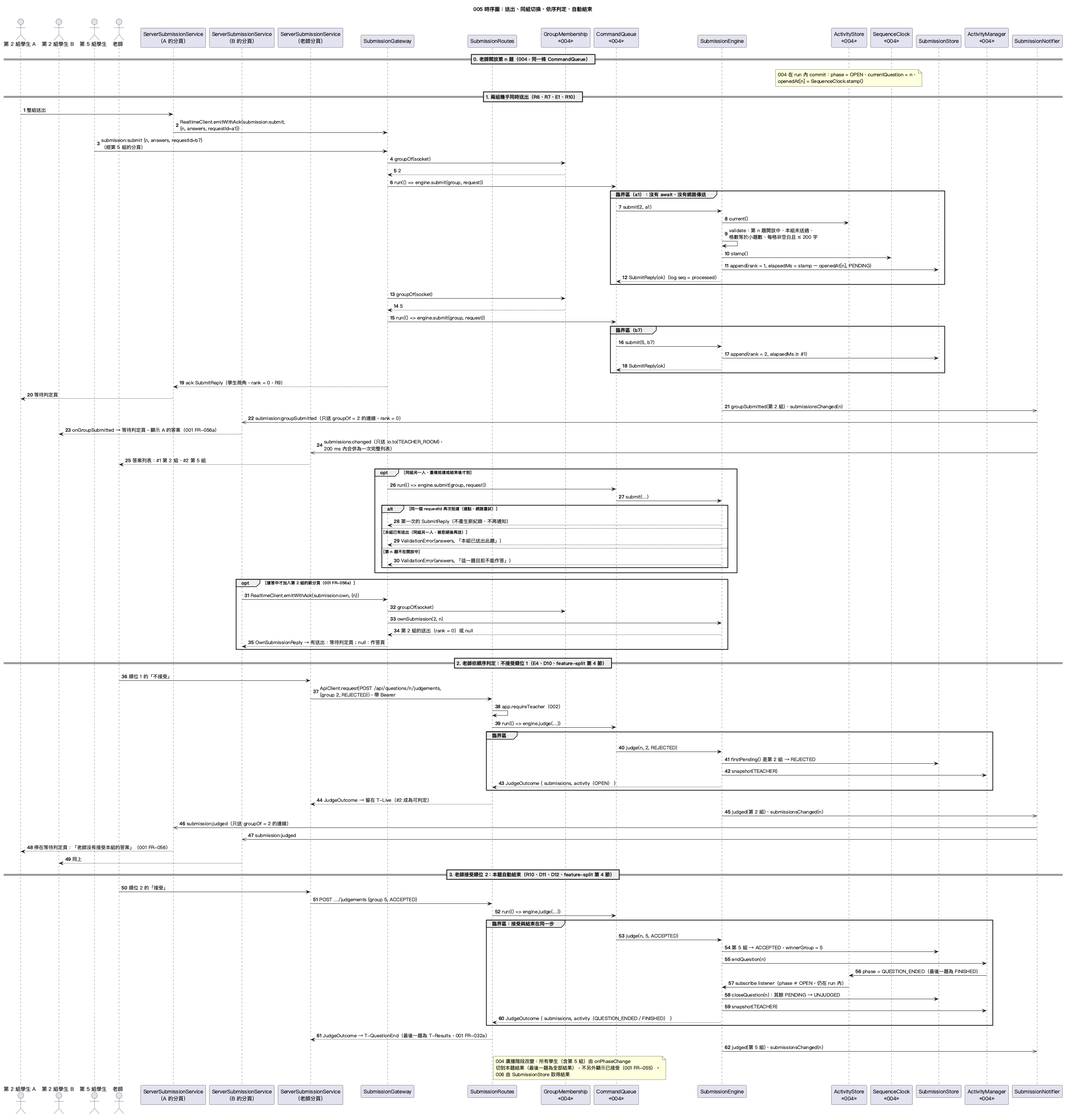
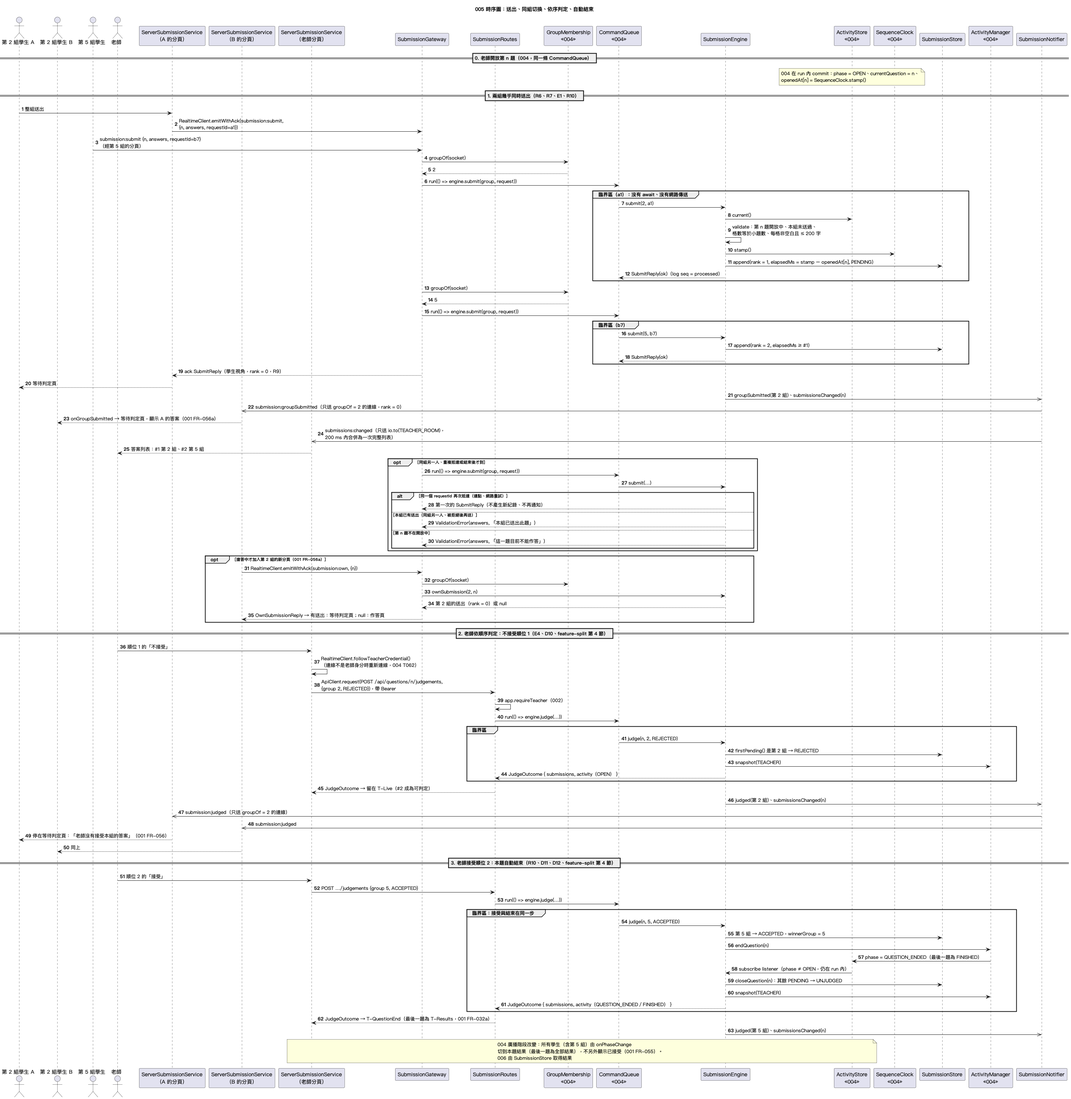
spec(005): align design and tasks with the built 001–004 code
The design was written before 004 existed and assumed a listener
signature, emit timing and helpers that differ from the real code.
Each user story now ends with a manual check, so rebinding moves
into US1 and 001's tests follow the real server.

Refs: T024, T037–T046, REQ-SUB-07, REQ-SUB-10, REQ-SUB-14, 原則 VIII

diff --git a/specs/005-buzz-submission/plan.md b/specs/005-buzz-submission/plan.md
@@ -1,6 +1,6 @@
 # Implementation Plan: 搶答與判定
 
-**Branch**: `005-buzz-submission` | **Date**: 2026-11-21（2026-11-22 配合 001 最終版修訂） | **Spec**: [spec.md](./spec.md)
+**Branch**: `005-buzz-submission` | **Date**: 2026-11-21（2026-11-22 配合 001 最終版修訂；2026-11-27 對照 001–004 的實際程式修訂） | **Spec**: [spec.md](./spec.md)
 
 **Input**: Feature specification from `specs/005-buzz-submission/spec.md`
 
@@ -14,11 +14,11 @@
 
 **Language/Version**: TypeScript 5（strict），Node.js 24 LTS（沿用 001 research RD-01、RD-02）
 
-**Primary Dependencies**: Fastify（002 的 `buildApp`）、Socket.IO 4（002 的 `app.io`、004 的前端 `RealtimeClient`，只用 WebSocket 傳輸）、pino（002 的 `loggerOptions`）、004 的 `CommandQueue`、`SequenceClock`、`ActivityStore`、`GroupMembership`、`ActivityManager`、002 的前端 `ApiClient`、React（001 的前端，不改頁面）。005 不新增執行期套件；`socket.io-client` 已是前端依賴，伺服器的整合與壓力測試另加為 devDependency
+**Primary Dependencies**: Fastify（002 的 `buildApp`）、Socket.IO 4（002 的 `app.io`、004 的前端 `RealtimeClient`，只用 WebSocket 傳輸）、pino（002 的 `loggerOptions`）、004 的 `CommandQueue`、`SequenceClock`、`ActivityStore`、`GroupMembership`、`ActivityManager`、002 的前端 `ApiClient`、React（001 的前端，不改頁面）。005 不新增執行期套件；`socket.io-client` 已是前端依賴，也已是 server 的 devDependency（004 加入）
 
 **Storage**: 伺服器記憶體（`SubmissionStore`）；伺服器重啟即消失，不寫檔（001 research RD-05）
 
-**Testing**: Vitest（單元、整合；整合以 Fastify `inject()` 與真的 Socket.IO 連線）、Playwright（多分頁端對端）、壓力測試 `npm run test:load -w server`（research RD-10、RD-11）
+**Testing**: Vitest（單元、整合；整合以 Fastify `inject()` 與真的 Socket.IO 連線）、Playwright（多分頁端對端）、壓力測試 `npm run test:load:submission -w server`（research RD-10、RD-11）。測試伺服器、假的 `RealtimeClient` 與 E2E 測試伺服器沿用 004 的輔助檔
 
 **Target Platform**: 本機單一 Node 程序；Chrome 為主，多分頁模擬老師與各組
 
@@ -43,7 +43,7 @@
 | V. 單一權威狀態來源 | 階段與題號只讀 004 的 `ActivityStore`；送出、順位、判定只在 `SubmissionStore`；前端只呈現伺服器回傳或推送的完整列表 | 通過 |
 | VI. 最小資訊揭露與機敏資料 | 學生只收本組資料，`rank` 一律為 0（`SubmissionVisibility.forStudent`）；送出列表與判定需 `app.requireTeacher`，老師推播只送 `TEACHER_ROOM`；log 不記答案與憑證；005 不碰金鑰 | 通過（research RD-06） |
 | VII. 輸入驗證與錯誤訊息 | 送出的題號、格數、空白、長度、組別都在伺服器驗證，錯誤指出是哪一格；判定請求格式錯誤回 400，不合規則不改變狀態 | 通過 |
-| VIII. 自動化測試與人工驗證 | 每個 User Story 有正常與邊界案例；Google、時鐘以替身取代；壓力測試；人工驗證紀錄 | 通過 |
+| VIII. 自動化測試與人工驗證 | 每個 User Story 有正常與邊界案例；Google、時鐘以替身取代；壓力測試；每個 User Story 的 Phase 結尾各有人工驗證並留下紀錄 | 通過 |
 | IX. 程式碼規範 | 不新增頁面元件；呈現（頁面）與資料（服務）分離；英文命名 | 通過 |
 | X. 人工把關 | 本計畫需人工審查後才進入 tasks | 待審查 |
 | XI. 簡潔 | 不用資料庫、鎖、worker、每連線 Outbox（research RD-05）；沒有只有一個實作的新介面；不自建佇列與時鐘，直接用 004 的；判定通知掃描連線而不維護組別房間（research RD-05） | 通過 |
@@ -53,7 +53,7 @@
 | 圖中的組件／類別 | 程式位置 | 來源圖 |
 | --- | --- | --- |
 | `ServerSubmissionService` | `frontend/src/services/server/ServerSubmissionService.ts` | component、class、sequence |
-| `createServiceRegistry()`（改 `submission` 綁定，移除 `judgementControl`、`submissionValidationControl`、`teammateControl`） | `frontend/src/services/createServiceRegistry.ts`（001 的檔案，只改綁定） | component |
+| `createServiceRegistry()`（改 `submission` 綁定，移除 `judgementControl`、`submissionValidationControl`、`teammateControl`，刪除 004 橋接中跟送出有關的部分，research RD-08） | `frontend/src/services/createServiceRegistry.ts`（001 的檔案，只改組合根） | component |
 | `SubmitRequest`、`SubmitReply`、`OwnSubmissionRequest`、`OwnSubmissionReply`、`JudgeRequest`、`SubmissionsChanged`、`GroupSubmitted`、`SubmissionJudged`、事件名稱常數 | `shared/src/submissionEvents.ts` | class |
 | `SubmissionGateway` | `server/src/submission/SubmissionGateway.ts` | component、class、sequence |
 | `SubmissionRoutes` | `server/src/submission/SubmissionRoutes.ts` | component、class、sequence |
@@ -61,23 +61,23 @@
 | `SubmissionStore`、`QuestionSubmissions`、`SubmissionRecord` | `server/src/submission/SubmissionStore.ts` | component、class、sequence |
 | `SubmissionVisibility` | `server/src/submission/SubmissionVisibility.ts` | component、class |
 | `SubmissionNotifier` | `server/src/submission/SubmissionNotifier.ts` | component、class、sequence |
-| 組裝與註冊（建立上述物件、訂閱 `ActivityStore.subscribe`、在 `app.io` 註冊事件、註冊路由） | `server/src/submission/index.ts` 的 `submissionRoutes`（Fastify plugin）；在 002 的 `buildApp`（`server/src/app.ts`）加一行 `app.register(submissionRoutes, deps)` | component |
+| 組裝與註冊（建立上述物件、訂閱 `ActivityStore.subscribe`、在 `app.io` 註冊事件、註冊路由） | `server/src/submission/index.ts` 的 `submissionRoutes`（Fastify plugin，從 004 的 `app.activity` 取得 `store`、`membership`、`manager`、`queue`、`clock`，從 002 取得 `app.io`、`app.requireTeacher`、`app.log`）；在 002 的 `buildApp`（`server/src/app.ts`）於 `createActivityModule` 之後加一行 `app.register(submissionRoutes)` | component |
 | 004 `CommandQueue`、`SequenceClock`、`ActivityStore`、`GroupMembership`、`ActivityManager.endQuestion`、`RealtimeClient`；002 `buildApp`、`app.requireTeacher`、`app.io`、`TEACHER_ROOM`、`ApiClient`、logger；006 `ResultService` | 其他子功能的檔案，005 只呼叫，不修改 | component、class、sequence |
 
 ## 交界假設
 
-已對照 001 最終版、004 `contracts/server-modules.md`（含前端 `RealtimeClient.on`、`emitWithAck`、`onConnect`）、`socket-events.md` 與 002 `contracts/server-extension.md`、`socket-handshake.md`。下列是 005 依賴、但對方契約沒有明寫或需要對方配合的部分。
+已對照 `main` 目前的 001、004 `contracts/server-modules.md`（含前端 `RealtimeClient.on`、`emitWithAck`、`onConnect`）、`socket-events.md` 與 002 `contracts/server-extension.md`、`socket-handshake.md`。下列是 005 依賴、但對方契約沒有明寫或需要對方配合的部分。2026-11-27 對照 001–004 的實際程式後，除 A-8 外都已確認成立（「狀態」欄）。
 
-| # | 假設 | 對象 |
-| --- | --- | --- |
-| A-1 | `ActivityStore.subscribe(listener)` 的 listener 在 `commit` 當下、仍在 `CommandQueue.run` 內同步被呼叫（004 契約已寫明）。005 在 listener 中看到第 n 題不再開放時，把待判定改為未判定 | 004 |
-| A-2 | 004 擁有唯一的 `CommandQueue.run<T>(command: () => T): T` 與 `SequenceClock.stamp()`；004 的開放、結束一題也走這條佇列（REQ-ACT-17），所以 005 的送出、判定與它們構成單一順序。`ActivityState.openedAt` 由同一個 `SequenceClock` 記錄 | 004 |
-| A-3 | 004 的 `ActivityManager.snapshot(Audience.TEACHER)` 可在 `CommandQueue.run` 內呼叫，回傳當下的老師視角 `Activity`；005 用它組 `JudgeOutcome.activity`（004 data-model 已列出 `snapshot(audience)`，但寫的用途是「連線時第一次推送」） | 004 |
-| A-4 | `ActivityManager.endQuestion(n)` 在第 n 題不是目前開放的題目時丟 `ActivityRuleError(QUESTION_NOT_OPEN)`，已結束時不改變不報錯；005 只在確認第 n 題開放中之後呼叫。最後一題時 004 一併把活動改為 `FINISHED`（D9） | 004 |
-| A-5 | 005 的老師路由加進 002 的老師路由清單測試（002 T043），確認沒有老師憑證時被 `app.requireTeacher` 拒絕 | 002 |
-| A-6 | 002 提供測試用的老師憑證取得方式（不連 Google），供 005 的整合、端對端與壓力測試使用；學生加入組別與開題直接走 004 的 `group:join` 與 HTTP | 002、004 |
-| A-7 | 006 以 `SubmissionStore.list(n)`、`winner(n)` 取得每題結果；`list` 回傳老師視角（含 `rank`）的 `Submission[]` | 006 |
-| A-8 | 001 把 `Submission.rank` 改成可選之前，學生視角 `rank` 填 0；改完後由 005 的後續任務 T035 改成不放 `rank`。這一項不阻擋 005 的實作 | 001 |
+| # | 假設 | 對象 | 狀態 |
+| --- | --- | --- | --- |
+| A-1 | `ActivityStore.subscribe(listener)` 的 listener 在 `commit` 當下、仍在 `CommandQueue.run` 內同步被呼叫（004 契約已寫明）。005 在 listener 中看到第 n 題不再開放時，把待判定改為未判定。listener 的參數是新的 `version: number`，005 以 `ActivityStore.current()` 讀狀態；listener 只改 `SubmissionStore` 與排程推播，不在裡面 `emit`（004 RA-04） | 004 | 已確認（`ActivityStore.commit`） |
+| A-2 | 004 擁有唯一的 `CommandQueue.run<T>(command: () => T): T` 與 `SequenceClock.stamp()`；004 的開放、結束一題也走這條佇列（REQ-ACT-17），所以 005 的送出、判定與它們構成單一順序。`ActivityState.openedAt` 由同一個 `SequenceClock` 記錄；在 `run` 內再呼叫 `run` 會就地執行 | 004 | 已確認（`CommandQueue`、`ActivityManager.openQuestion`） |
+| A-3 | 004 的 `ActivityManager.snapshot(Audience.TEACHER)` 可在 `CommandQueue.run` 內呼叫，回傳當下的老師視角 `Activity`；005 用它組 `JudgeOutcome.activity`（004 data-model 已列出 `snapshot(audience)`，但寫的用途是「連線時第一次推送」） | 004 | 已確認（程式註解寫明可在 `run` 內呼叫） |
+| A-4 | `ActivityManager.endQuestion(n)` 在第 n 題不是目前開放的題目時丟 `ActivityRuleError(QUESTION_NOT_OPEN)`，已結束時不改變不報錯；005 只在確認第 n 題開放中之後呼叫。最後一題時 004 一併把活動改為 `FINISHED`（D9） | 004 | 已確認（`ActivityManager.endQuestion`） |
+| A-5 | 005 的老師路由加進 002 的老師路由清單測試（002 T043），確認沒有老師憑證時被 `app.requireTeacher` 拒絕 | 002 | 待 T022 加入 |
+| A-6 | 002 提供測試用的老師憑證取得方式（不連 Google），供 005 的整合、端對端與壓力測試使用；學生加入組別與開題直接走 004 的 `group:join` 與 HTTP | 002、004 | 已確認：004 的 `activityTestServer.ts` 經 002 的 `FakeGoogleGateway` 取得 `teacherToken`，並有 `rotateTeacher()` |
+| A-7 | 006 以 `SubmissionStore.list(n)`、`winner(n)` 取得每題結果；`list` 回傳老師視角（含 `rank`）的 `Submission[]` | 006 | 006 尚未開始 |
+| A-8 | 001 把 `Submission.rank` 改成可選之前，學生視角 `rank` 填 0；改完後由 005 的後續任務 T035 改成不放 `rank`。這一項不阻擋 005 的實作 | 001 | 未完成（`shared/src/entities.ts` 的 `rank` 仍為必填） |
 
 ## Project Structure
 
@@ -95,7 +95,8 @@ specs/005-buzz-submission/
 │   └── submission-store.md     # 提供給 006 的 SubmissionStore
 ├── checklists/requirements.md
 ├── analyze-report.md
-├── manual-verification.md      # implement 階段產生
+├── manual-verification.md      # implement 階段產生：每個 User Story 的人工驗證
+├── load-test.md                # implement 階段產生：壓力測試 20 輪的結果
 └── tasks.md
 ```
 
@@ -105,9 +106,9 @@ specs/005-buzz-submission/
 shared/src/
 └── submissionEvents.ts                  # 005：事件名稱與 payload 型別
 server/
-├── package.json                         # 005：加入 test:load script、socket.io-client devDependency
+├── package.json                         # 005：加入 test:load:submission script
 ├── src/
-│   ├── app.ts                           # 002 的 buildApp：加一行 app.register(submissionRoutes, deps)
+│   ├── app.ts                           # 002 的 buildApp：加一行 app.register(submissionRoutes)
 │   └── submission/                      # 005
 │       ├── index.ts                     # submissionRoutes（Fastify plugin）：組裝並註冊
 │       ├── SubmissionEngine.ts
@@ -117,18 +118,21 @@ server/
 │       ├── SubmissionGateway.ts
 │       └── SubmissionRoutes.ts
 └── tests/
+    ├── helpers/activityTestServer.ts    # 004 的檔案：005 加入含題組的匯入範例與等待事件的輔助函式
     ├── unit/submission/
     ├── integration/submission/
     └── load/submission.load.ts
 frontend/
 ├── src/services/
-│   ├── createServiceRegistry.ts         # 001 的檔案：只改 submission 綁定、移除兩個模擬控制
+│   ├── createServiceRegistry.ts         # 001 的檔案：只改 submission 綁定、移除三個模擬控制與 004 橋接中跟送出有關的部分
 │   └── server/ServerSubmissionService.ts
 └── tests/
-    ├── unit/ServerSubmissionService.test.ts
+    ├── unit/ServerSubmissionService.student.test.ts
+    ├── unit/ServerSubmissionService.teacher.test.ts
     └── e2e/
         ├── submission.spec.ts
-        └── submission-texts.spec.ts
+        ├── submission-texts.spec.ts
+        └── us4-student.spec.ts、us5-*.spec.ts、us5-walk.ts 等  # 001 的 E2E：只改走法，改接測試伺服器
 ```
 
 **Structure Decision**: 伺服器的 005 程式集中在 `server/src/submission/`，只有 `SubmissionGateway`、`SubmissionNotifier` 使用 Socket.IO，只有 `SubmissionRoutes` 使用 Fastify；`SubmissionEngine`、`SubmissionStore` 不依賴網路，可用假物件做單元測試。事件型別放 `shared/`，前後端改動欄位時編譯期就會發現。

diff --git a/specs/005-buzz-submission/research.md b/specs/005-buzz-submission/research.md
@@ -1,8 +1,8 @@
 # Research: 搶答與判定
 
-**Feature**: `005-buzz-submission` | **Date**: 2026-11-21（2026-11-22 配合 001 最終版修訂） | **Plan**: [plan.md](./plan.md)
+**Feature**: `005-buzz-submission` | **Date**: 2026-11-21（2026-11-22 配合 001 最終版修訂；2026-11-27 對照 001–004 的實際程式修訂） | **Plan**: [plan.md](./plan.md)
 
-技術棧沿用 001 [research.md](../001-ui-prototype/research.md) 的 RD-01～RD-08（TypeScript strict、Node.js 24 LTS、Fastify、Socket.IO、pino、Vitest、Playwright、npm workspaces `frontend/` `shared/` `server/`），不另選框架。介面與實體以 001 最終版（PR #10）的 [contracts/service-interfaces.md](../001-ui-prototype/contracts/service-interfaces.md)、[data-model.md](../001-ui-prototype/data-model.md) 為準。伺服器骨架、`app.io`、`TEACHER_ROOM`、`app.requireTeacher`、`ApiClient` 依 002 `contracts/server-extension.md`、`socket-handshake.md`；`CommandQueue`、`SequenceClock`、`ActivityStore`、`GroupMembership`、`ActivityManager`、`RealtimeClient` 依 004 `contracts/server-modules.md`、`socket-events.md`。本文件只處理 005 特有的問題：順序、時間、併發、資訊隔離與介面的落點。順序與併發的想法沿用舊 `002-buzzer-session` research R1～R4、R8，改成「老師依順序判定」（E4）。
+技術棧沿用 001 [research.md](../001-ui-prototype/research.md) 的 RD-01～RD-08（TypeScript strict、Node.js 24 LTS、Fastify、Socket.IO、pino、Vitest、Playwright、npm workspaces `frontend/` `shared/` `server/`），不另選框架。介面與實體以 `main` 目前的 001（含 2026-11-24、2026-11-27 的修訂）的 [contracts/service-interfaces.md](../001-ui-prototype/contracts/service-interfaces.md)、[data-model.md](../001-ui-prototype/data-model.md) 為準。伺服器骨架、`app.io`、`TEACHER_ROOM`、`app.requireTeacher`、`ApiClient` 依 002 `contracts/server-extension.md`、`socket-handshake.md`；`CommandQueue`、`SequenceClock`、`ActivityStore`、`GroupMembership`、`ActivityManager`、`RealtimeClient` 依 004 `contracts/server-modules.md`、`socket-events.md`。本文件只處理 005 特有的問題：順序、時間、併發、資訊隔離與介面的落點。順序與併發的想法沿用舊 `002-buzzer-session` research R1～R4、R8，改成「老師依順序判定」（E4）。
 
 ---
 
@@ -39,8 +39,9 @@
 ## RD-05 推播量、同組通知與慢連線（REQ-SUB-10、REQ-SUB-15、REQ-SUB-20、NFR-02、NFR-04）
 
 - **Decision**:
-  - 老師列表合併：某題有變化時，若 200 ms 內沒有推送過就立刻推送，否則在 200 ms 視窗結束時推送一次最新的完整列表。
-  - 送給某一組的通知（組員送出、判定）不合併：走過 `app.io` 目前所有連線，送給 `GroupMembership.groupOf(socket) === n` 的那些。004 不建立組別房間（004 socket-events），所以 005 不維護 `group:<n>` 房間。組員送出的通知也會送到送出者自己的分頁；那個分頁已經在等待判定頁，沒有訂閱 `onGroupSubmitted`，不受影響。
+  - 老師列表合併：某題有變化時，若 200 ms 內沒有推送過，就以 `setImmediate` 排在這一輪事件迴圈結束後推送；否則在 200 ms 視窗結束時推送一次最新的完整列表。
+  - `SubmissionNotifier` 的三個方法都只排程，不在呼叫當下 `emit`：它們由 `submit`、`judge` 與 `ActivityStore.subscribe` 的 listener 在 004 的 `CommandQueue.run` 內呼叫，而 004 規定 listener 只排程、不在 `run` 內送網路訊息（004 RA-04，`ActivityBroadcaster` 也用 `setImmediate`）。組員送出與判定的通知同樣以 `setImmediate` 送出，不合併。
+  - 送給某一組的通知（組員送出、判定）不合併，排程後走過 `app.io` 目前所有連線，送給 `GroupMembership.groupOf(socket) === n` 的那些。004 不建立組別房間（004 socket-events），所以 005 不維護 `group:<n>` 房間。組員送出的通知也會送到送出者自己的分頁；那個分頁已經在等待判定頁，沒有訂閱 `onGroupSubmitted`，不受影響。
   - 所有 `emit` 都不等待對方回應。
 - **Rationale**: 1 秒 1,000 筆送出時，老師最多每秒收到 5 份列表，落後不超過 1 秒。組別通知一題最多 20 次（每組送出一次）加上幾次判定，每次掃過約 200 條連線，成本可忽略；比在加入、離開組別與斷線重連時同步維護房間簡單（XI）。Socket.IO 對每條連線各自緩衝，慢連線只塞住自己。
 - **上限**: 連線數到數千條時，改成在 004 的加入組別流程中維護房間。
@@ -63,13 +64,17 @@
 
 ## RD-08 001 頁面的落點與替換方式
 
-- **Decision**: 前端新增 `frontend/src/services/server/ServerSubmissionService.ts`，實作 001 `SubmissionService` 的七個方法，在 `createServiceRegistry()` 把 `submission` 綁到它，並移除 `judgementControl`、`submissionValidationControl`、`teammateControl`（001 plan「替換模擬實作的方式」、data-model `ServiceRegistry`）。004 在 005 完成前把活動與本分頁組別寫進 `MockSession`，讓模擬送出能展示（004 plan）；換綁後 `submission` 不再讀 `MockSession`。`MockSubmissionService` 是 001 的檔案，保留不刪，只供 001 的測試使用。
+- **Decision**: 前端新增 `frontend/src/services/server/ServerSubmissionService.ts`，實作 001 `SubmissionService` 的七個方法，在 `createServiceRegistry()` 把 `submission` 綁到它，並移除 `judgementControl`、`submissionValidationControl`、`teammateControl`（001 plan「替換模擬實作的方式」、data-model `ServiceRegistry`）。`MockSubmissionService` 是 001 的檔案，保留不刪，只供 001 的單元與元件測試使用。
+- **組合根中 004 留下的橋接（004 RA-14 的 `bridgeMocksToActivity`）**：刪除跟送出有關的部分：包住 `submission.judge` 的那一層（接受後改呼叫 `activity.endQuestion`；真正的 `judge` 已在伺服器自動結束本題）、包住 `joinGroup`／`leaveGroup` 寫入 `MockSession.joinedGroup` 的那一層，以及 `session.setViewerPhaseAdvancer(() => {})`。保留 `onActivityChange`／`onPhaseChange` 寫入 `MockSession.teacherActivity` 與 003 的 `lastImport` 包裝，因為 `MockResultService` 仍要讀，006 換掉結果的模擬實作後才刪。`mockBound` 移除 `submission`。
+- **006 完成前的結果頁**：`MockResultService` 讀的是 `MockSession.submissions`，換綁後永遠是空的，每一題都顯示「沒有組別送出」。spec 列為已知限制（Session 2026-11-27）；不另做橋接把真正的送出寫回 `MockSession`（XI：那段程式只為了展示，006 一完成就要刪）。
+- **001 的測試**：依賴「模擬：接受」「模擬：不接受」「模擬：同組組員送出」與送出的「模擬：驗證失敗」的 001 E2E 與元件測試，改走真的測試伺服器（同 004 T061）：老師以測試伺服器登入，學生真的送出，需要判定時由輔助函式直接呼叫測試伺服器的老師 API。只改走法與輔助檔，不改 001 的頁面與既有斷言；一定要改斷言才能通過的測試先列出，由使用者決定。這些模擬控制的專屬測試（它們只驗證模擬實作本身）隨模擬控制從組合根移除而刪除或改為只測 `MockSubmissionService`。
 - 使用其他子功能的前端元件：
   - Socket.IO：004 的 `RealtimeClient`（每分頁一條連線，組別記在這條連線上）。`submitAnswer`、`getGroupSubmission` 用 `emitWithAck`（5 秒逾時，以 `UnexpectedError`「連不上伺服器，請確認伺服器已啟動」reject）；`onSubmissionsChange`、`onGroupSubmitted`、`onJudgement` 用 `on`；重新連線用 `onConnect`。
   - HTTP：002 的 `ApiClient.request(method, path, body?)`，自動帶老師憑證，錯誤轉成 `ApiError`（符合 `UnexpectedError`）。
 - `ValidationError` 配合 001 現況：作答頁一律顯示在第一個答案欄旁（001 tasks T087）。`field` 沿用 001 模擬實作的寫法：某一格為 `answers.<i>`，不屬於某一格為 `answers`；`message` 說明是哪一格或什麼原因。
+- **老師憑證與連線**：`listSubmissions`、`judge`、`onSubmissionsChange` 開頭都先呼叫 `RealtimeClient.followTeacherCredential()`，與 004 `HttpActivityService` 的老師指令相同（004 T062）。分頁在登入前以學生身分連線；沒有這一步，連線不在 `TEACHER_ROOM`，收不到 `submissions:changed`。重新連線後的 `onConnect` 會觸發下面的重新讀取。
 - **重新連線**:
-  - 老師：`onSubmissionsChange` 的訂閱在 `onConnect` 時重新呼叫 `GET /api/questions/:n/submissions`，以完整列表通知頁面。
+  - 老師：`onSubmissionsChange` 的訂閱在 `onConnect` 時重新呼叫 `GET /api/questions/:n/submissions`，以完整列表通知頁面。老師重新整理後重新登入（001 FR-015）時，控制台・搶答中掛載時本來就會 `listSubmissions` 並訂閱，取得的是伺服器上的完整列表（AC-29）；舊憑證的請求由 002 拒絕。
   - 學生：服務記住最近一次 `submitAnswer`／`getGroupSubmission` 的題號。`onConnect` 時若有 `onGroupSubmitted` 或 `onJudgement` 的訂閱，就重新 `getGroupSubmission(q)`：有送出且有 `onGroupSubmitted` 訂閱時通知它；判定為 `REJECTED` 且有 `onJudgement` 訂閱時通知它。004 的 `RealtimeClient` 不補送舊事件，所以由服務自己補。
 
 ## RD-09 Logging（原則 VI、VIII）
@@ -79,7 +84,7 @@
 
 ## RD-10 壓力測試（NFR-01、NFR-02、SC-002、SC-003）
 
-- **Decision**: `server/tests/load/submission.load.ts`，以 `npm run test:load -w server` 執行，重複 20 輪：
+- **Decision**: `server/tests/load/submission.load.ts`，以 `npm run test:load:submission -w server` 執行（命名沿用 004 的 `test:load:activity`），重複 20 輪，每輪結果記在 `specs/005-buzz-submission/load-test.md`（同 004：壓力測試是自動化量測，不放進人工驗證紀錄）：
   1. 以子程序啟動伺服器（隨機埠，Google 以 002 的測試替身取代），pino 輸出到暫存檔。
   2. 以 `socket.io-client`（只用 WebSocket 傳輸）建立 1 個老師連線與 200 個學生連線（20 組 × 10），學生經 004 的 `group:join` 加入。
   3. 老師經 004 的 HTTP 建立活動並開放一題。
@@ -91,7 +96,8 @@
 ## RD-11 測試分層（原則 VIII）
 
 - **單元**（Vitest，`server/tests/unit/submission/`）：`SubmissionEngine`（使用 004 真正的 `CommandQueue`、以假的 `performance.now` 控制的 `SequenceClock`，以及假的 `ActivityStore`、`ActivityManager`）、`SubmissionStore`、`SubmissionVisibility`、`SubmissionNotifier`（假計時器、假的 io）；前端 `ServerSubmissionService`（假的 `RealtimeClient` 與 `ApiClient`）。`CommandQueue`、`SequenceClock` 本身的測試屬於 004。
-- **整合**（Vitest + Fastify `inject()` 與真的 Socket.IO 連線，`server/tests/integration/submission/`）：使用 002、004 的真正實作，Google 以 002 的測試替身取代。
-- **端對端**（Playwright，`frontend/tests/e2e/`）：1 個老師分頁與 3 個學生分頁走完送出、組員跟著切換、拒絕、接受、自動結束；擷取學生分頁的 WebSocket 訊息檢查 R9。
+- **整合**（Vitest + Fastify `inject()` 與真的 Socket.IO 連線，`server/tests/integration/submission/`）：使用 002、004 的真正實作，Google 以 002 的測試替身取代。測試伺服器沿用 004 的 `server/tests/helpers/activityTestServer.ts`（老師憑證、`rotateTeacher()`、只用 WebSocket 的老師與學生連線、`emitWithAck`、`importResult`），005 只在旁邊加一個含題組的匯入範例與等待 005 事件的輔助函式，不另寫一份測試伺服器。
+- **前端單元**：使用既有的 `frontend/tests/helpers/fakeRealtimeClient.ts`，不另寫假的 `RealtimeClient`。
+- **端對端**（Playwright，`frontend/tests/e2e/`，經 004 的 `testServer.ts`／`server/tests/e2e/startTestServer.ts` 連到測試伺服器）：1 個老師分頁與 3 個學生分頁走完送出、組員跟著切換、拒絕、接受、自動結束；擷取學生分頁的 WebSocket 訊息檢查 R9。
 - **壓力**：RD-10。
-- **人工驗證**：`specs/005-buzz-submission/manual-verification.md`（implement 階段產生）。
+- **人工驗證**：每個 User Story 的 Phase 結尾各執行 quickstart 中該 Story 的情境，結果記在 `specs/005-buzz-submission/manual-verification.md`（implement 階段產生）；Polish 再把全部情境走一次。

diff --git a/specs/005-buzz-submission/analyze-report.md b/specs/005-buzz-submission/analyze-report.md
@@ -1,6 +1,6 @@
 # Specification Analysis Report: 005 搶答與判定
 
-**Date**: 2026-11-21（第 4 次：2026-11-22） | **Command**: `/speckit-analyze` | **Artifacts**: spec.md、plan.md、tasks.md、research.md、data-model.md、contracts/、diagrams/005-*.puml、constitution.md；交界對照 001 最終版（PR #10）、`docs/feature-split.md` 最新版、004 `contracts/server-modules.md`、`socket-events.md`，002 `contracts/server-extension.md`、`socket-handshake.md`、`tasks.md`
+**Date**: 2026-11-21（第 4 次：2026-11-22；第 5 次：2026-11-27） | **Command**: `/speckit-analyze` | **Artifacts**: spec.md、plan.md、tasks.md、research.md、data-model.md、contracts/、diagrams/005-*.puml、constitution.md；交界對照 001 最終版（PR #10）、`docs/feature-split.md` 最新版、004 `contracts/server-modules.md`、`socket-events.md`，002 `contracts/server-extension.md`、`socket-handshake.md`、`tasks.md`
 
 ## 第 1 次分析的發現（已修正）
 
@@ -47,6 +47,44 @@
 | L5 | Dependency | LOW | plan 交界假設 A-3 | 005 在 `CommandQueue.run` 內呼叫 004 的 `ActivityManager.snapshot(Audience.TEACHER)` 組 `JudgeOutcome.activity`；004 文件寫的用途是「連線時第一次推送」 | 請 004 確認可在 `run` 內呼叫（只讀，無副作用） |
 | L6 | Usability | LOW | spec Assumptions | 配合 001 現況：「整組送出」有空白格時仍可按；驗證錯誤一律顯示在第一個答案欄旁 | 已寫為已知限制；要改善需先改 001 |
 
+## 第 5 次分析（2026-11-27，對照 001–004 完成後的實際程式）
+
+001–004 已實作完成；005 的文件停在 2026-11-22。這次對照 `main` 目前的 001 spec 與契約、004 `server/src/activity/`、`frontend/src/services/` 的實際程式。處理方式由使用者決定（S1–S3），其餘照建議修改。
+
+### 發現與修正
+
+| ID | Category | Severity | Location(s) | Summary | 修正 |
+|----|----------|----------|-------------|---------|------|
+| S1 | Process | HIGH | 分支、`.specify/feature.json` | 分支 `005-buzzer-submission` 與 `specs/005-buzz-submission` 不同名（CLAUDE.md 第 2 節）；`.specify/feature.json`（不進版控）仍指向 004，speckit 指令都會作用在 004 | 分支改名為 `005-buzz-submission`；`feature.json` 改指 005 |
+| S2 | Inconsistency | HIGH | tasks T024、research RD-08 | 004 RA-14 在組合根留下 `bridgeMocksToActivity`，換綁時沒有處理；換綁後 `MockResultService` 讀不到送出，結果頁一律「沒有組別送出」 | 使用者決定 A：T024 刪除橋接中跟送出有關的部分，保留 `teacherActivity` 與 `lastImport`；結果頁的落差列為已知限制（spec Session 2026-11-27、Assumptions） |
+| S3 | Coverage | HIGH | tasks | 換綁後依賴模擬控制的 001 測試會失敗，沒有任務處理（004 以 T061、T063 處理同類問題） | 新增 T041（Phase 3，送出相關）、T043（Phase 4，判定相關）：只改走法與輔助檔，不改頁面與斷言；必須改斷言的先列出由使用者決定 |
+| M1 | Coverage | MEDIUM | spec | 001 FR-015、D21：老師在搶答中重新登入後回到控制台；spec 沒有這個情境 | 新增 AC-29、Edge Case、REQ-SUB-10 補充；T019 以 `rotateTeacher()` 測試 |
+| M2 | Inconsistency | MEDIUM | data-model、research RD-08、tasks | 老師端方法沒有呼叫 `RealtimeClient.followTeacherCredential()`（004 T062），連線可能不在 `TEACHER_ROOM` | data-model、contracts 規則 7、類別圖、時序圖、T038、T040、T020、T023 補上 |
+| M3 | Inconsistency | MEDIUM | 類別圖、data-model | `ActivityStore.subscribe` 的 listener 參數寫成 `ActivityState`，實際為 `version: number` | 改為 `onActivityChange(version)`，以 `current()` 讀狀態；重新產生 PNG |
+| M4 | Inconsistency | MEDIUM | research RD-05、T008、T029 | 推送「立刻送出」會在 `CommandQueue.run` 內 `emit`，違反 004 RA-04 | 推送一律 `setImmediate` 排程；T029 改為 `run` 內不得 `emit`；contracts 規則 6、類別圖 note |
+| M5 | Duplication | MEDIUM | T003、T014、T020、T032 | 另寫測試伺服器與假 `RealtimeClient`，與 004 既有輔助檔重複 | 改為擴充 `activityTestServer.ts`，使用 `fakeRealtimeClient.ts` 與 004 的 E2E 測試伺服器 |
+| L1 | Inconsistency | LOW | T002、plan、quickstart、RD-10 | `socket.io-client` 已是 devDependency；指令命名與 004 不一致 | 改為 `test:load:submission` |
+| L2 | Inconsistency | LOW | T030 | 壓力測試結果寫進人工驗證紀錄；004 改為獨立的 `load-test.md` | 改記在 `load-test.md` |
+| L3 | Dependency | LOW | plan 交界假設、spec「相依」、contracts | A-1～A-4、A-6 已可確認；004 以 `app.activity` 提供模組；「PR #10 最終版」已過時 | plan 加「狀態」欄；`app.register(submissionRoutes)` 改從 `app.activity` 取得；改為以 `main` 目前的版本為準 |
+| L4 | Process | LOW | tasks | CLAUDE.md 步驟 6 的頁面確認規則沒有說明 | tasks 註明 005 不改頁面，不適用 |
+
+### 依使用者要求新增
+
+- 每個 User Story 的 Phase 以人工驗證結尾：T042（US1）、T044（US2）、T045（US3）、T046（US4）；quickstart 的人工驗證情境依 User Story 分組（情境 1–16），T033 在 Polish 全部再走一次。
+- 為了讓 US1 能在瀏覽器驗證，組合根換綁（T024）與老師的答案列表（`GET` 路由 T039、`listSubmissions`／`onSubmissionsChange` T040，對應 US1 的 AC-03）提前到 Phase 3；判定（`POST` 路由、`judge`）留在 Phase 4。Phase 3 與 Phase 4 之間，`judge` 暫時以 `UnexpectedError`「判定功能尚未完成（005 Phase 4）」reject（2026-11-27 使用者決定，不把判定提前、不交給模擬實作）：控制台在共通錯誤訊息區顯示訊息，列表與階段不變，題目以 004 的「結束這一題」結束；T038 測試這個錯誤，T023 換成真正的實作並刪除這段程式與測試案例。
+- 任務編號 T036 未使用（新增任務從 T037 起，避免與舊編號混淆）。
+
+### 修正後重跑
+
+以腳本核對：spec 的 AC-01～29 都出現在 tasks；tasks 引用的任務編號都有定義（T061 是 004 的任務）；文件中已沒有 `test:load -w`、`submissionTestServer`、`ActivityState [0..1]) =>`、「立刻送出」等過時寫法。
+
+| ID | Category | Severity | Summary | Recommendation |
+|----|----------|----------|---------|----------------|
+| L4 | Dependency | LOW | `Submission.rank` 在 001 仍為必填，T035 繼續等待 | 不變 |
+| L6 | Usability | LOW | 已知限制：空白格仍可按送出、錯誤顯示在第一個答案欄旁 | 不變 |
+| L7 | Usability | LOW | 已知限制：006 完成前結果頁一律「沒有組別送出」 | 006 完成後消失 |
+| L8 | Process | LOW | T041、T043 可能需要改 001 的斷言（例如 `createServiceRegistry.test.ts` 檢查三個控制存在、`us4-student.spec.ts` 檢查訊息「模擬：驗證失敗」） | 實作時列出，由使用者決定 |
+
 ## Coverage Summary
 
 | Requirement Key | Has Task? | Task IDs | Notes |
@@ -54,7 +92,7 @@
 | REQ-SUB-01～21 | ✅ | 見 tasks.md 需求追溯表 | 21 條全部有任務 |
 | REQ-SUB-NFR-01～04 | ✅ | T027～T030、T012、T015 | 壓力測試、慢連線、時鐘 |
 | SC-001～007 | ✅ | 見 tasks.md 成功標準表 | SC-006 為人工驗證 |
-| AC-01～28 | ✅ | 每個 AC 至少出現在一個測試任務 | 以腳本逐一核對 |
+| AC-01～29 | ✅ | 每個 AC 至少出現在一個測試任務 | 以腳本逐一核對（2026-11-27） |
 
 **Constitution Alignment Issues**: 沒有。I（三張圖完整、藍圖對照、T034）、II（追溯表）、III（只改組合根綁定與 `buildApp` 一行註冊，不改 001 頁面）、V（只讀 004 `ActivityStore`；單一佇列由 004 擁有）、VI（`forStudent` 的 `rank` 為 0、只送本組、`app.requireTeacher`、`TEACHER_ROOM`、T025）、VII（伺服器驗證、`{ code, message }`）、VIII（每個 Story 有正常與邊界測試、T033 人工驗證）、XI（不自建佇列與時鐘、不維護組別房間、不做 Outbox）。
 
@@ -63,12 +101,12 @@
 ## Metrics
 
 - Total Requirements: 25（21 條功能需求、4 條非功能需求）
-- Total Acceptance Criteria: 28
-- Total Tasks: 35
+- Total Acceptance Criteria: 29
+- Total Tasks: 45（T001–T046，T036 未使用）
 - Coverage: 100%
 - Ambiguity Count: 0
 - Duplication Count: 0
-- Critical Issues Count: 0（HIGH 0、MEDIUM 0、LOW 4）
+- Critical Issues Count: 0（第 5 次修正後：HIGH 0、MEDIUM 0、LOW 4）
 
 ## 跨子功能交界
 
@@ -77,10 +115,11 @@
 | 001 `SubmissionService` 七個方法、`JudgeOutcome` | ✅ contracts/submission-api.md 第 4 節逐一對應；頁面行為照 001 最終版 |
 | 001 D10–D18 | ✅ spec「001 交給 005 的事項」依最終版逐條處理 |
 | 002 `buildApp`、`app.requireTeacher`、`app.io`、`TEACHER_ROOM`、`ApiClient`、`{ code, message }`、T043 老師路由清單 | ✅ T019、T022、T025 |
-| 004 `CommandQueue`、`SequenceClock`、`ActivityStore.subscribe`、`GroupMembership.groupOf`、`ActivityManager.endQuestion`／`snapshot`、`RealtimeClient.on`／`emitWithAck`／`onConnect` | ✅ 與 004 contracts 一致；`snapshot` 在 `run` 內呼叫待 004 確認（L5） |
+| 004 `CommandQueue`、`SequenceClock`、`ActivityStore.subscribe`、`GroupMembership.groupOf`、`ActivityManager.endQuestion`／`snapshot`、`RealtimeClient.on`／`emitWithAck`／`onConnect` | ✅ 已與 004 的實際程式核對（2026-11-27）：`snapshot` 可在 `run` 內呼叫；listener 參數為版本號；推送不在 `run` 內送出 |
 | 006 `SubmissionStore.list`、`winner` | ✅ contracts/submission-store.md；`behindFirstMs` 由 006 計算 |
 
 ## Next Actions
 
-- 沒有 CRITICAL、HIGH、MEDIUM，可以進入人工審查（原則 X）。
+- 第 5 次修正後沒有 CRITICAL、HIGH、MEDIUM；人工審查（原則 X）後可以進入 `/speckit-implement` Phase 1。
+- 依 CLAUDE.md 第 3 節，spec 的修改要先獨立 commit（`spec` 類型），再 commit plan、tasks 等設計文件與圖表。
 - 001 把 `Submission.rank` 改成可選後，執行 T035。

diff --git a/specs/005-buzz-submission/quickstart.md b/specs/005-buzz-submission/quickstart.md
@@ -5,7 +5,7 @@
 ## 前置條件
 
 - Node.js 24 LTS；在 repo 根目錄 `npm install`。
-- 001（PR #10 最終版）、002、003、004 已合併。005 不需要 001 再改頁面；`Submission.rank` 在 001 改成可選之前，學生收到的一律是 0。
+- 001、002、003、004 已合併（以 `main` 目前的版本為準）。005 不需要 001 再改頁面；`Submission.rank` 在 001 改成可選之前，學生收到的一律是 0。
 - 手動操作時需要 Google 登入的環境變數（`GOOGLE_CLIENT_ID`、`GOOGLE_CLIENT_SECRET`、`GOOGLE_API_KEY`、`GOOGLE_APP_ID`），由使用者自行設定；自動化測試以 002 的測試替身取代 Google，不需要這些變數。
 
 ## 自動化測試
@@ -14,22 +14,52 @@
 | --- | --- | --- |
 | `npm test -w server -- submission` | 伺服器單元與整合測試 | 全部通過 |
 | `npm test -w frontend -- ServerSubmissionService` | 前端服務單元測試 | 全部通過 |
-| `npx playwright test submission -c frontend/playwright.config.ts` | 1 個老師分頁、3 個學生分頁的端對端測試 | 全部通過 |
-| `npm run test:load -w server` | 壓力測試，20 輪（research RD-10） | 20 輪都通過；輸出每輪的 p95、最大延遲、被接受筆數（20） |
+| `npm test -w frontend` | 前端全部單元與元件測試（含 001 的測試，換綁後仍要通過） | 全部通過 |
+| `npx playwright test -c frontend/playwright.config.ts` | 005 的端對端測試，以及改走測試伺服器的 001 E2E | 全部通過 |
+| `npm run test:load:submission -w server` | 壓力測試，20 輪（research RD-10） | 20 輪都通過；輸出每輪的 p95、最大延遲、被接受筆數（20）；結果記在 `load-test.md` |
 
 ## 人工驗證情境
 
-啟動系統（`npm run dev`），開 1 個老師分頁與 3 個學生分頁（第 1 組 A、B 兩人，第 2 組 C 一人）。老師登入、匯入「題組＋單題範本」、建立 3 組的活動、開放第 1 題（題組）。結果記在 `specs/005-buzz-submission/manual-verification.md`。
+啟動系統（`npm start`），開 1 個老師分頁與 3 個學生分頁（第 1 組 A、B 兩人，第 2 組 C 一人）。老師登入、匯入「題組＋單題範本」、建立 3 組的活動、開放第 1 題（題組）。每個 User Story 的 Phase 完成後，執行該 Story 的情境；Polish 再把全部情境走一次。結果記在 `specs/005-buzz-submission/manual-verification.md`。
+
+### US1 學生以組別整組送出（Phase 3 結尾）
+
+Phase 3 結束時，組合根已換綁真正的實作（T024），老師看得到答案列表，但判定要到 Phase 4 才完成；這時按「接受」「不接受」，共通錯誤訊息區會顯示「判定功能尚未完成（005 Phase 4）」，列表與階段不變；要結束題目時按 004 的「結束這一題」。判定相關的情境留到 US2。
 
 | # | 操作 | 預期 | 對應 |
 | --- | --- | --- | --- |
 | 1 | A 只填（1），按「整組送出」 | 留在作答頁，第一個答案欄旁顯示「每一格都填才能送出」，已填的內容不變 | AC-02 |
 | 2 | A、B 都填好，幾乎同時按「整組送出」 | 兩人最後都在等待判定頁，顯示同一份答案（先處理的那一筆）；老師列表中第 1 組只有一列 | AC-04、AC-27 |
 | 3 | C 送出 | 老師列表依序 #1 第 1 組、#2 第 2 組，各有兩個小題的答案與經過時間 | AC-03、AC-09 |
-| 4 | 檢查 C 的分頁（含瀏覽器開發者工具的 WebSocket 訊息） | 看不到第 1 組的任何資料；自己的送出資料 `rank` 為 0 | AC-17、AC-18 |
+| 4 | 另開一個新的學生分頁，加入第 1 組 | 新分頁直接進入等待判定頁，顯示「等待老師判定」 | AC-28 |
+
+### US2 老師依送出順序判定（Phase 4 結尾）
+
+接續 US1 的狀態（第 1 題：#1 第 1 組、#2 第 2 組都待判定）。
+
+| # | 操作 | 預期 | 對應 |
+| --- | --- | --- | --- |
 | 5 | 老師看 #2 的按鈕 | 不可用；只有 #1 可判定 | AC-10 |
 | 6 | 老師按 #1「不接受」 | 老師留在控制台・搶答中；A、B 停在等待判定頁，改為顯示「老師沒有接受本組的答案」，沒有送出按鈕；#2 變成可判定 | AC-08、AC-11 |
 | 7 | 另開一個新的學生分頁，在這時加入第 1 組 | 新分頁直接進入等待判定頁，顯示「老師沒有接受本組的答案」 | AC-28 |
-| 8 | 老師按 #2「接受」 | 1 秒內老師到控制台・本題已結束，所有學生到本題結果；第 2 組為搶答成功 | AC-12、SC-005 |
-| 9 | 開放第 2 題，只有第 1 組送出，老師按「結束這一題」 | 第 1 組的送出為「未判定」；結束後再送出被拒絕「這一題目前不能作答」 | AC-14、AC-06 |
-| 10 | 查看伺服器 log | 有 `submission.accepted`（含 `seq`、`rank`）、`judgement.applied`；沒有答案內容與憑證 | AC-22 |
+| 8 | 老師重新整理分頁，從首頁重新登入 | 回到控制台・搶答中，#1 第 1 組「不接受」、#2 第 2 組「待判定」，#2 的按鈕可用；學生頁面不受影響 | AC-29 |
+| 9 | 老師按 #2「接受」 | 1 秒內老師到控制台・本題已結束，所有學生到本題結果；本題結果頁顯示「沒有組別送出」（已知限制，006 完成前） | AC-12、SC-005、spec Assumptions |
+| 10 | 開放第 2 題，只有第 1 組送出，老師按「結束這一題」 | 第 1 組的送出為「未判定」；結束後再送出被拒絕「這一題目前不能作答」 | AC-14、AC-06 |
+| 11 | 檢查活動設定頁摘要的成功規則說明（下一輪建立活動前，或另開伺服器） | 看到「老師依送出順序判定，第一個被接受的組別搶答成功」與「每組每題只能送出一次，被拒絕後不能重送」 | AC-26 |
+
+### US3 作答期間學生看不到其他組（Phase 5 結尾）
+
+| # | 操作 | 預期 | 對應 |
+| --- | --- | --- | --- |
+| 12 | 開放下一題，第 1 組送出後，檢查 C 的分頁（含瀏覽器開發者工具的 WebSocket 訊息） | 看不到第 1 組的任何資料；自己的送出資料 `rank` 為 0 | AC-17、AC-18 |
+| 13 | 在 C 的分頁的開發者工具中，以不帶老師憑證的方式呼叫 `GET /api/questions/:n/submissions` | 被拒絕（401），拿不到任何送出資料 | AC-16、AC-19 |
+
+### US4 高併發下順序仍然正確（Phase 6 結尾）
+
+開 1 個老師分頁與 6 個學生分頁（6 組各 1 人），開放一題，6 個分頁都先填好答案。
+
+| # | 操作 | 預期 | 對應 |
+| --- | --- | --- | --- |
+| 14 | 以最快速度依序按 6 個分頁的「整組送出」 | 6 個分頁都在 1 秒內進入等待判定頁；老師列表的順位與按下的先後一致，#1～#6 連續不重複 | AC-20、AC-21 |
+| 15 | 一個學生分頁在開發者工具把網路設為 Slow 3G 後送出，同時其他分頁也送出 | 其他分頁仍在 1 秒內得到回覆，順位不受慢分頁影響 | AC-24 |
+| 16 | 查看伺服器 log | 有 `submission.accepted`（含 `seq`、`rank`）、`judgement.applied`；log 中的順位與老師列表一致；沒有答案內容與憑證 | AC-22 |

diff --git a/specs/005-buzz-submission/data-model.md b/specs/005-buzz-submission/data-model.md
@@ -38,9 +38,9 @@
 | `lastRequest: SubmitRequest [0..1]` | 上一次因逾時或斷線失敗的送出；題號與答案相同時沿用其 `requestId` |
 | `lastQuestion: number [0..1]` | 最近一次 `submitAnswer`／`getGroupSubmission` 的題號；重新連線時用來補發學生的通知 |
 | `submitAnswer(q, answers)` | 004 `RealtimeClient.emitWithAck(SUBMIT, request)`；`ok` 回 `submission`，否則回 `error` |
-| `listSubmissions(q)` | 002 `ApiClient.request("GET", "/api/questions/:q/submissions")` |
-| `onSubmissionsChange(q, listener)` | `RealtimeClient.on(SUBMISSIONS_CHANGED, …)`，只轉交題號為 q 的列表；`RealtimeClient.onConnect` 時重新 `listSubmissions(q)` 並通知 |
-| `judge(q, group, judgement)` | `ApiClient.request("POST", "/api/questions/:q/judgements", { groupNumber, judgement })`，回傳 `JudgeOutcome` |
+| `listSubmissions(q)` | 先 `RealtimeClient.followTeacherCredential()`，再 002 `ApiClient.request("GET", "/api/questions/:q/submissions")` |
+| `onSubmissionsChange(q, listener)` | 先 `RealtimeClient.followTeacherCredential()`（讓連線在 `TEACHER_ROOM`，004 T062），再 `RealtimeClient.on(SUBMISSIONS_CHANGED, …)`，只轉交題號為 q 的列表；`RealtimeClient.onConnect` 時重新 `listSubmissions(q)` 並通知 |
+| `judge(q, group, judgement)` | 先 `RealtimeClient.followTeacherCredential()`，再 `ApiClient.request("POST", "/api/questions/:q/judgements", { groupNumber, judgement })`，回傳 `JudgeOutcome` |
 | `getGroupSubmission(q)` | `RealtimeClient.emitWithAck(OWN, { questionNumber: q })`，回傳 `submission`（或 `null`） |
 | `onGroupSubmitted(listener)` | `RealtimeClient.on(GROUP_SUBMITTED, …)`；`onConnect` 時以 `getGroupSubmission(lastQuestion)` 補發 |
 | `onJudgement(listener)` | `RealtimeClient.on(JUDGED, …)`；`onConnect` 時以 `getGroupSubmission(lastQuestion)` 補發 `REJECTED` |
@@ -91,7 +91,7 @@
 | `submit(group, request): SubmitReply` | 在 004 的 `CommandQueue.run` 內執行。依序檢查：`group` 存在（否則 `answers`「請先加入組別」）→ 請求格式（`answers`「送出的資料格式不正確」）→ `request.questionNumber` 是 `ActivityStore` 目前開放的題（`answers`「這一題目前不能作答」）→ 本組已有紀錄（`requestId` 相同回第一次的結果；否則 `answers`「本組已送出此題」）→ 格數等於小題數（`answers`「送出的資料格式不正確」）→ 每格非空白（`answers.<i>`「每一格都填才能送出」）→ 每格 ≤ 200 字（`answers.<i>`「每一格最多 200 字」）→ 建立紀錄。建立後通知 `SubmissionNotifier.groupSubmitted`、`submissionsChanged` |
 | `ownSubmission(group, q): Submission [0..1]` | 本組第 q 題的紀錄，以 `forStudent` 產生；`group` 為空或沒有紀錄時為空（REQ-SUB-21） |
 | `judge(q, group, judgement): JudgeOutcome` | 在 004 的 `CommandQueue.run` 內執行；`ACCEPTED` 時就地呼叫 004 `ActivityManager.endQuestion(n)`；規則見 research RD-07；回傳 `{ submissions: SubmissionStore.list(q), activity: ActivityManager.snapshot(Audience.TEACHER).activity }` |
-| `onActivityChange(activity)` | 以 004 `ActivityStore.subscribe` 註冊的 listener（在 `commit` 當下、仍在 `CommandQueue.run` 內被呼叫）：先前開放的第 n 題不再是 `OPEN(n)`（`QUESTION_ENDED`、`FINISHED`、活動消失）→ `closeQuestion(n)` 並通知老師列表 |
+| `onActivityChange(version)` | 以 004 `ActivityStore.subscribe` 註冊的 listener（在 `commit` 當下、仍在 `CommandQueue.run` 內被呼叫，參數是新的版本號）：以 `ActivityStore.current()` 讀取狀態；先前開放的第 n 題不再是 `OPEN(n)`（`QUESTION_ENDED`、`FINISHED`、活動消失）→ `closeQuestion(n)` 並通知老師列表 |
 | `validate(group, request)` | 上述 `submit` 的檢查，回傳第一個錯誤或空 |
 
 ### 其他
@@ -99,7 +99,7 @@
 | 類別 | 成員 | 說明 |
 | --- | --- | --- |
 | `SubmissionVisibility` | `forTeacher(record)`、`forStudent(record)` | `forStudent` 的 `rank` 一律為 0（REQ-SUB-16）；001 改成可選後改為不放 |
-| `SubmissionNotifier` | `pending: Set<number>`、`timer`；`submissionsChanged(q)`、`groupSubmitted(record)`、`judged(record)`、`flush()` | 老師列表 200 ms 合併後送 `app.io.to(TEACHER_ROOM)`；組員送出與判定立刻送給 `GroupMembership.groupOf(socket) === n` 的連線（research RD-05） |
+| `SubmissionNotifier` | `pending: Set<number>`、`timer`；`submissionsChanged(q)`、`groupSubmitted(record)`、`judged(record)`、`flush()` | 三個方法都只排程（`setImmediate`），不在呼叫當下 `emit`，因為呼叫者在 `CommandQueue.run` 內（004 RA-04）。老師列表 200 ms 合併後送 `app.io.to(TEACHER_ROOM)`；組員送出與判定不合併，送給 `GroupMembership.groupOf(socket) === n` 的連線（research RD-05） |
 | `SubmissionGateway` | `register(io)`、`onSubmit(socket, request, ack)`、`onOwn(socket, request, ack)` | 在 002 的 `app.io` 上註冊；取得組別後 `commandQueue.run(() => engine.submit(group, request))`、`engine.ownSubmission(group, q)`，ack 回覆 |
 | `SubmissionRoutes` | `register(app)`、`list(q)`、`judge(q, request)` | 以 `app.register` 註冊在 002 的 `buildApp`；兩個路由都掛 `{ preHandler: app.requireTeacher }`，錯誤回應 `{ code, message }`；見 [contracts/submission-api.md](./contracts/submission-api.md) |
 
